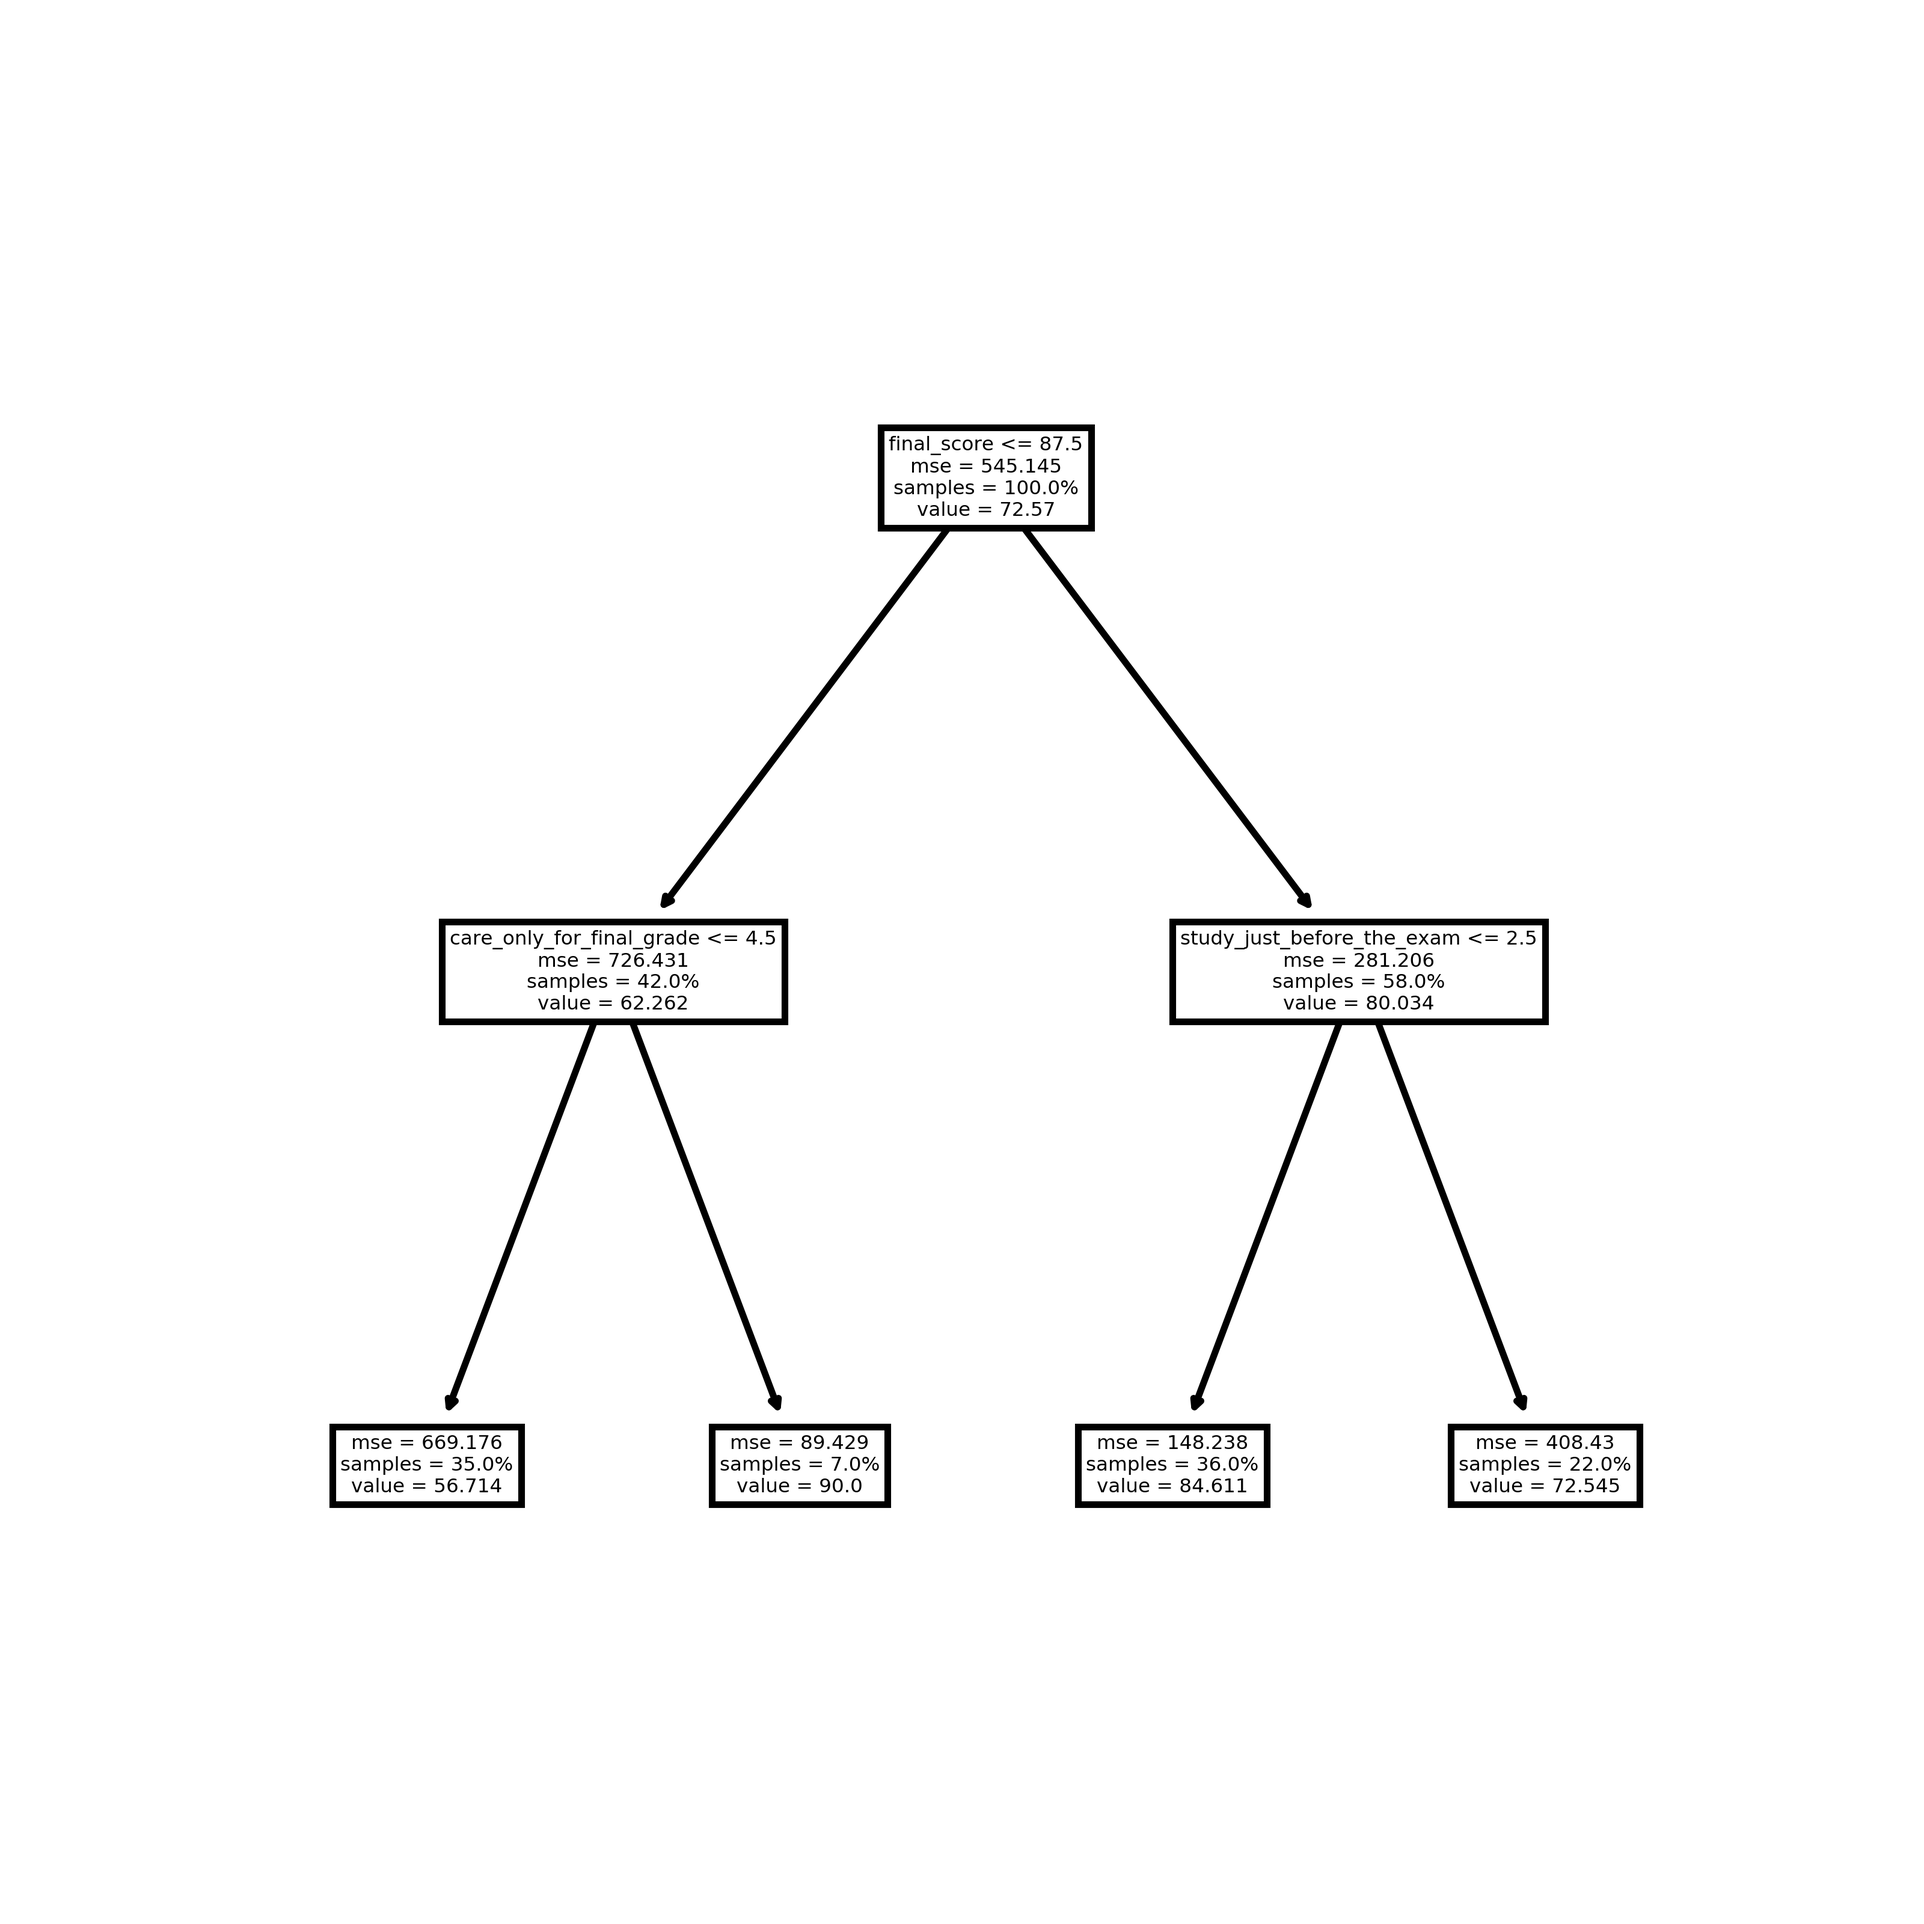
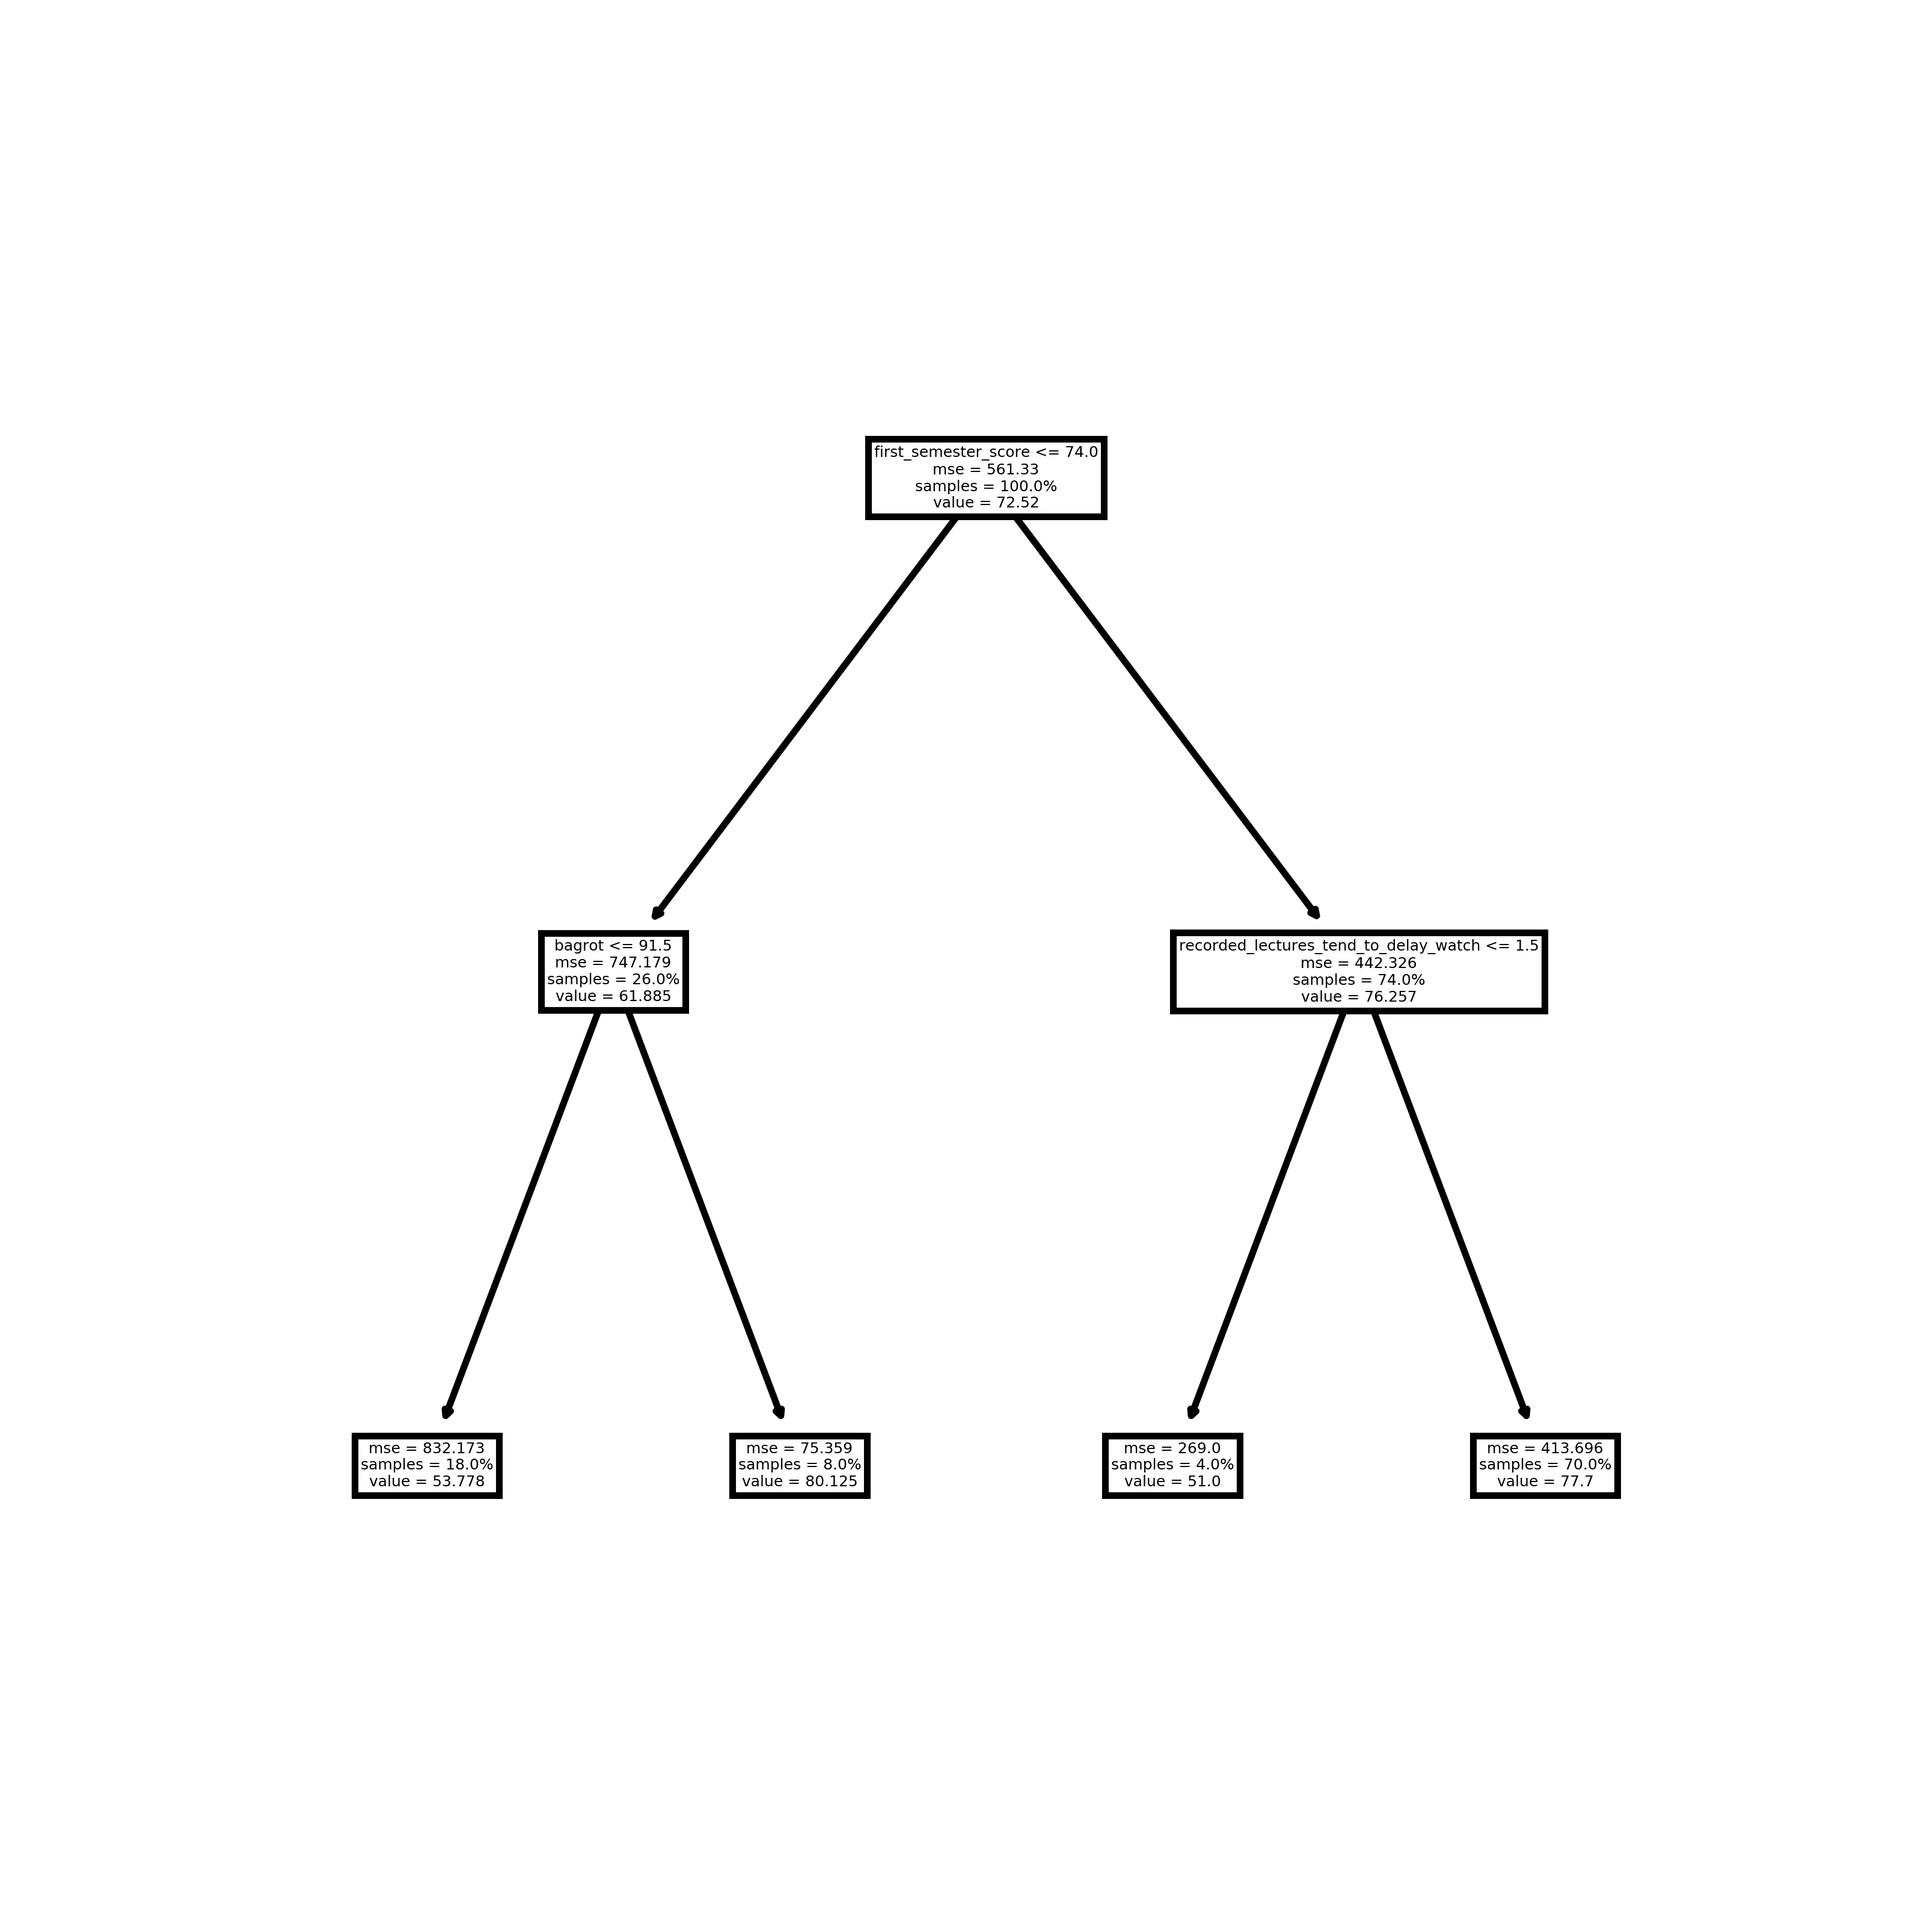
ML model with cols names fixes

diff --git a/main.py b/main.py
@@ -123,13 +123,15 @@ class Main:
         df["final_score"] = final_scores
 
         # keep only the wanted coloums
+        print("cols = {} (size = {})".format(PrepareMlDataset.dt_cols, len(PrepareMlDataset.dt_cols)))
         df = df[PrepareMlDataset.dt_cols]
         df = PrepareMlDataset.fix_pysicometry(df=df)
         df = PrepareMlDataset.normalize(df=df,
                                         feature="final_score",
                                         factor=100)
 
-        x, y = PrepareMlDataset.get_xs_ys(df=df, y_cols=["final_score"])
+        y_cols = ["final_score"]
+        x, y = PrepareMlDataset.get_xs_ys(df=df, y_cols=y_cols)
         x_train, y_train, x_test, y_test = PrepareMlDataset.split_data(x, y, 0.3)
         model = RandomForest()
         model.train(x=x_train,
@@ -139,10 +141,12 @@ class Main:
         test_score = model.manual_test(x_test=x_test,
                                        y_test=y_test,
                                        factor=100,
+                                       is_abs_error=True,
                                        debug=debug)
         with open("answers/rf_model_predict_final_score_max_depth_{}.txt".format(max_depth), "w") as result_file:
             result_file.write("Train: {} samples\nTest: {} samples with {:.3f} acc\n".format(x_train.shape[0], x_test.shape[0], test_score))
 
+        df = df.drop(columns=y_cols)
         model.export_graph(feature_names=list(df.columns),
                            print_text="final_score_features",
                            print_to_console=True)
@@ -178,6 +182,7 @@ class Main:
                         max_depth=max_depth)
             test_score = model.manual_test(x_test=x_test,
                                            y_test=y_test,
+                                           is_abs_error=True,
                                            factor=100,
                                            debug=debug)
             test_scores.append(test_score)
